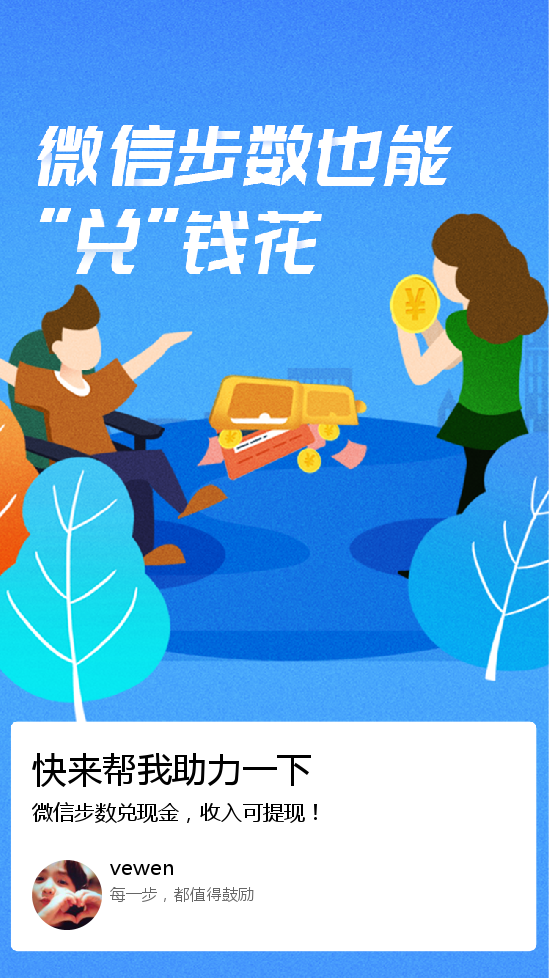
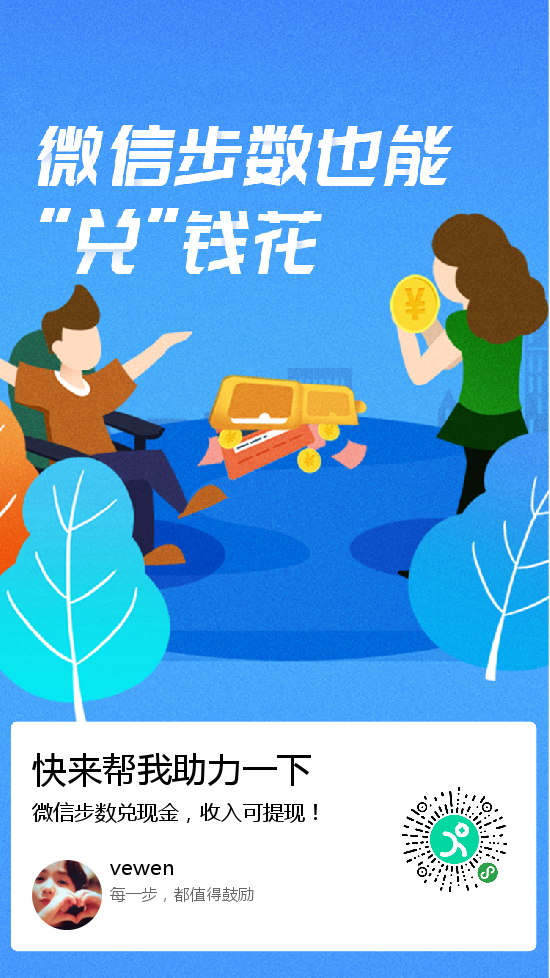
助力海报

Changed region(s): [[0.7418, 0.7975, 0.9273, 0.9202]]

diff --git a/addons/ewei_shopv2/plugin/app/core/mobile/goods/poster.php b/addons/ewei_shopv2/plugin/app/core/mobile/goods/poster.php
@@ -309,7 +309,7 @@ class Poster_EweiShopV2Page extends AppMobilePage
         imagettftext($target, 26, 0, 32, 782, $black, $font, '快来帮我助力一下');
         imagettftext($target, 16, 0, 32, 820, $black, $font, '微信步数兑现金，收入可提现！');
 //lihanwen
-        $qrcode = p("app")->getCodeUnlimit(array( "scene" => "&mid=" . $member["id"], "page" => "pages/helphand/friendhelp/friendhelp" ));
+        $qrcode = p("app")->getCodeUnlimit(array( "scene" => "&mid=" . $member["id"]."&hlpid=", "page" => "pages/helphand/helpshare/helpshare" ));
         if( !is_error($qrcode) )
         {
             $qrcode = imagecreatefromstring($qrcode);
@@ -345,7 +345,7 @@ class Poster_EweiShopV2Page extends AppMobilePage
         {
             app_error(AppError::$PosterCreateFail, "海报生成失败");
         }
-        app_json(array( "url" => $imgurl ));
+       // app_json(array( "url" => $imgurl ));
     }
 }
 ?>
